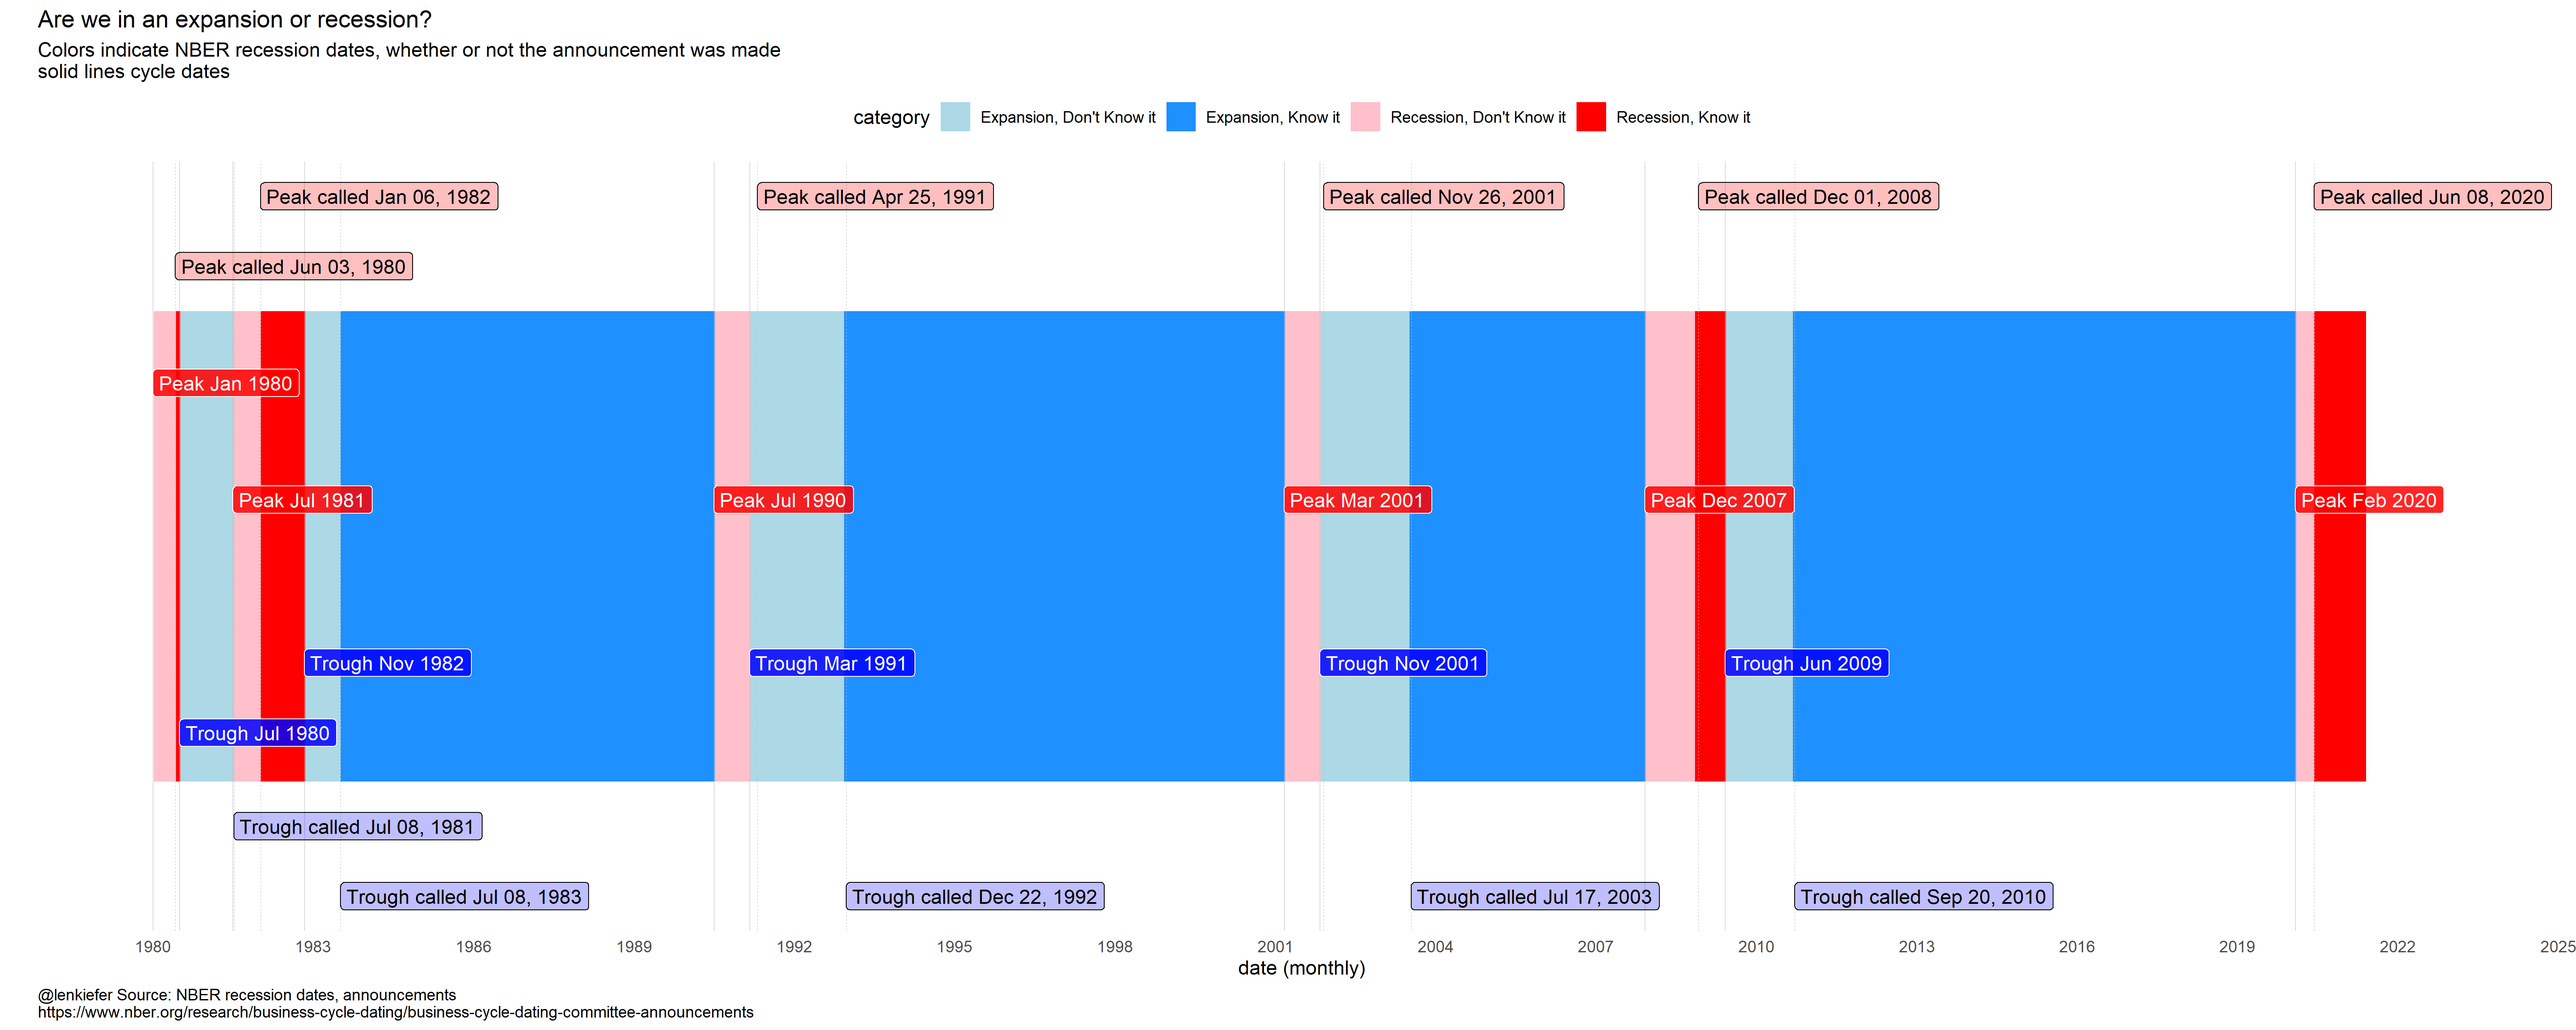
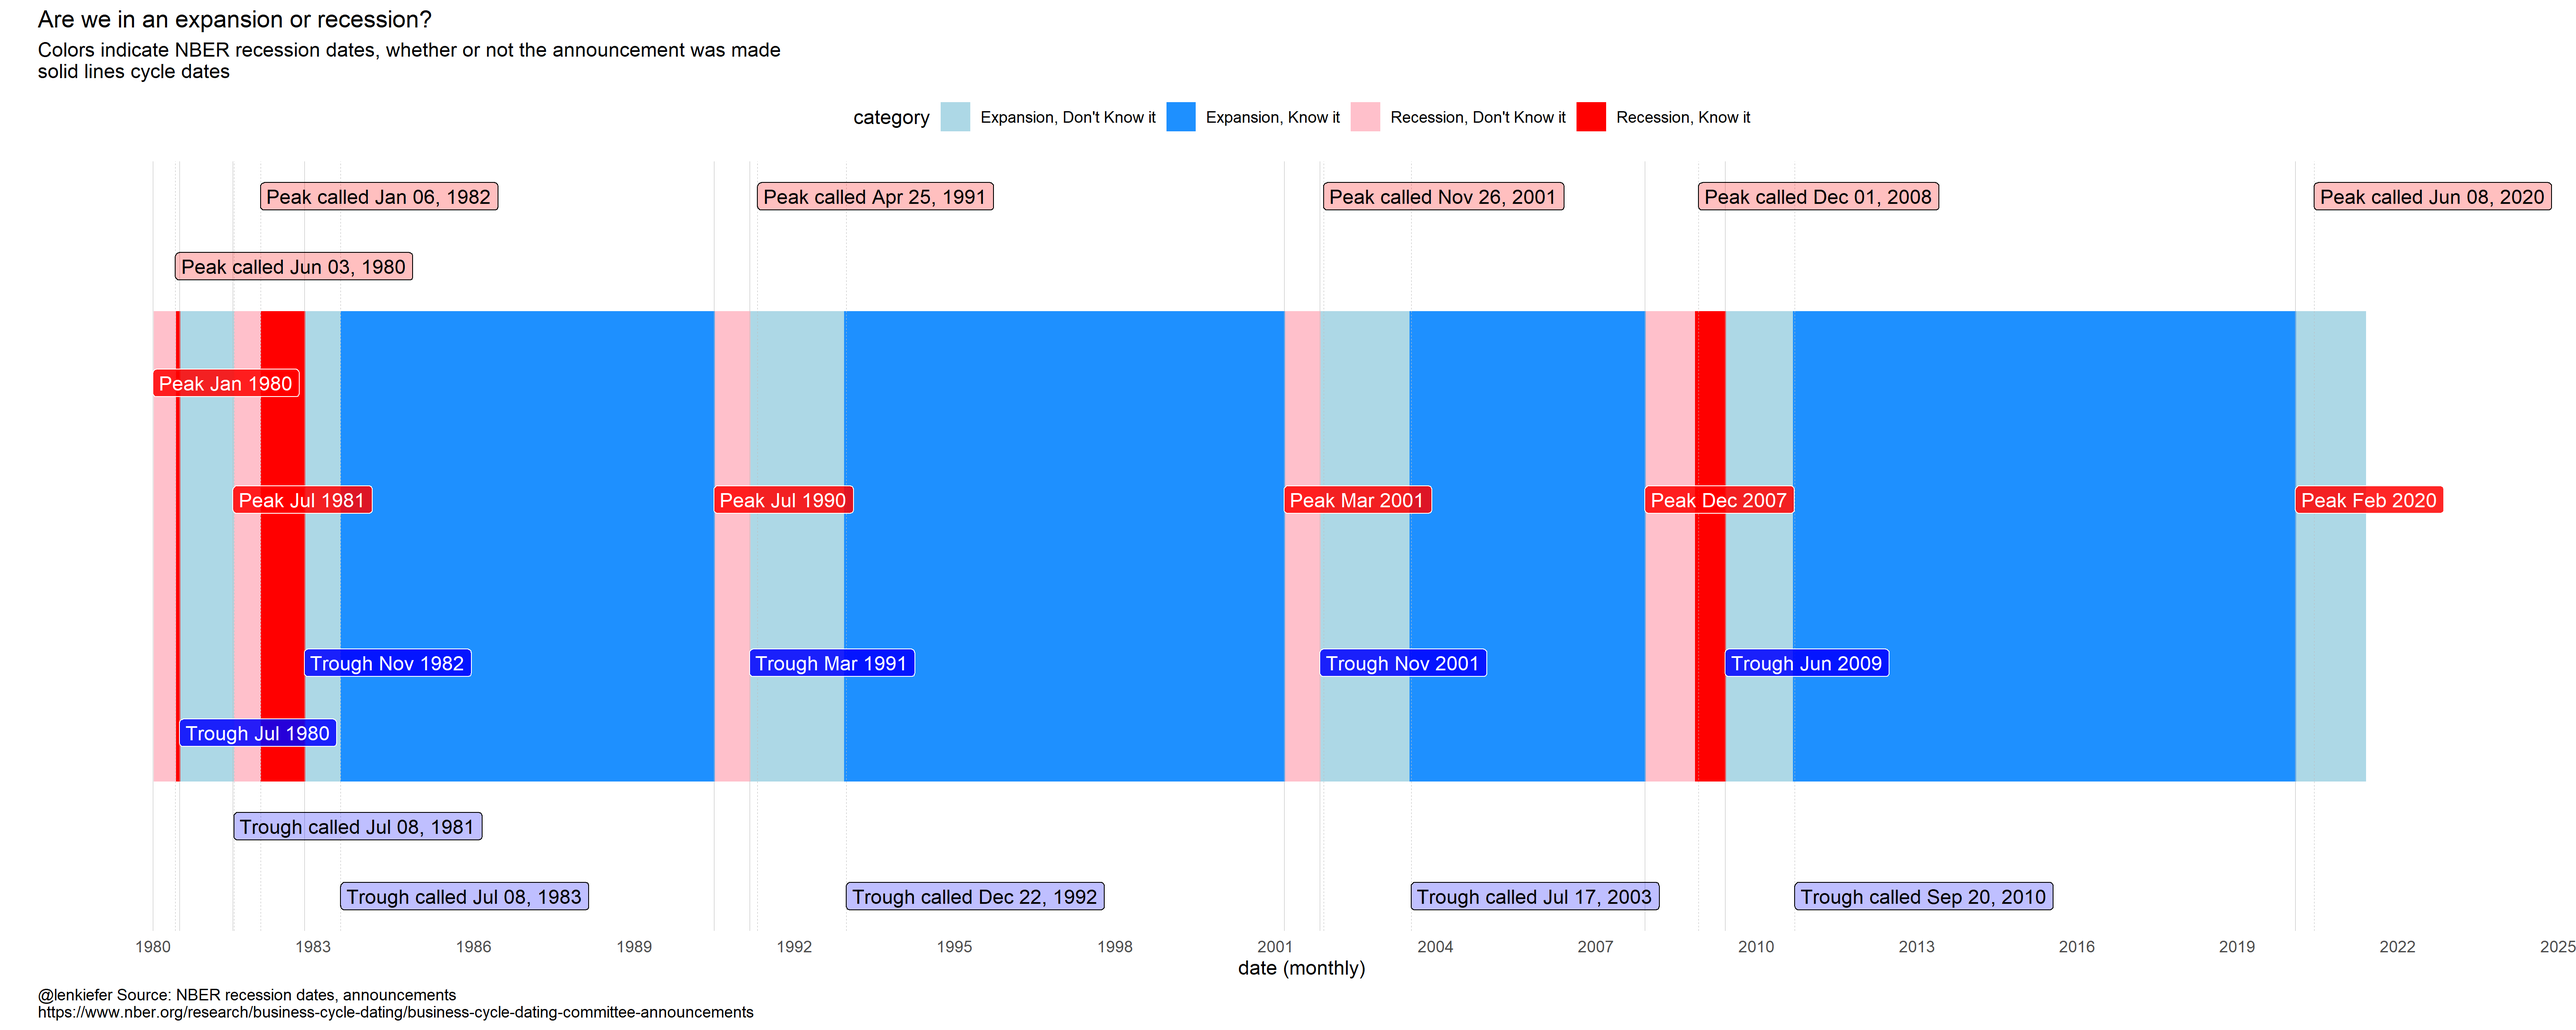
post expand v3

Changed region(s): [[0.8727, 0.2812, 0.935, 0.7812]]

diff --git a/2021/06/08/are-we-still-in-recession/index.html b/2021/06/08/are-we-still-in-recession/index.html
@@ -262,6 +262,8 @@ library(data.table)
 library(tidyverse)
 library(sqldf)
 library(patchwork)
+
+# note I don&#39;t have the NBER calls for recessions prior to 1980, but put in a dummy value of 1900-01-01 for the first row, I end up dropping it
 recessions.df = read.table(textConnection(
   &quot;Peak, Trough, Call_peak, Call_trough
   1973-11-01, 1975-03-01, 1900-01-01, 1900-01-01
@@ -299,7 +301,7 @@ rdf &lt;- recession.df %&gt;%
 
 # get employment data
 df2 &lt;-
-  tidyquant::tq_get(&quot;PAYEMS&quot;, get = &quot;economic.data&quot;, from = &quot;1979-01-01&quot;) %&gt;%
+  tidyquant::tq_get(&quot;PAYEMS&quot;, get = &quot;economic.data&quot;, from = &quot;1980-01-01&quot;) %&gt;%
   mutate(dj = price - lag(price))
 
 
@@ -313,7 +315,8 @@ output &lt;- sqldf(
 
 outdf &lt;- mutate(
   output,
-  expand = ifelse(date &gt; Peak, &quot;Recession&quot;, &quot;Expansion&quot;),
+  expand=ifelse(date&gt;Peak, &quot;Recession&quot;,&quot;Expansion&quot;),
+  expand=ifelse(is.na(Peak),&quot;Expansion&quot;,expand),
   d1 = as.Date(
     ifelse(
       expand == &quot;Recession&quot;,
